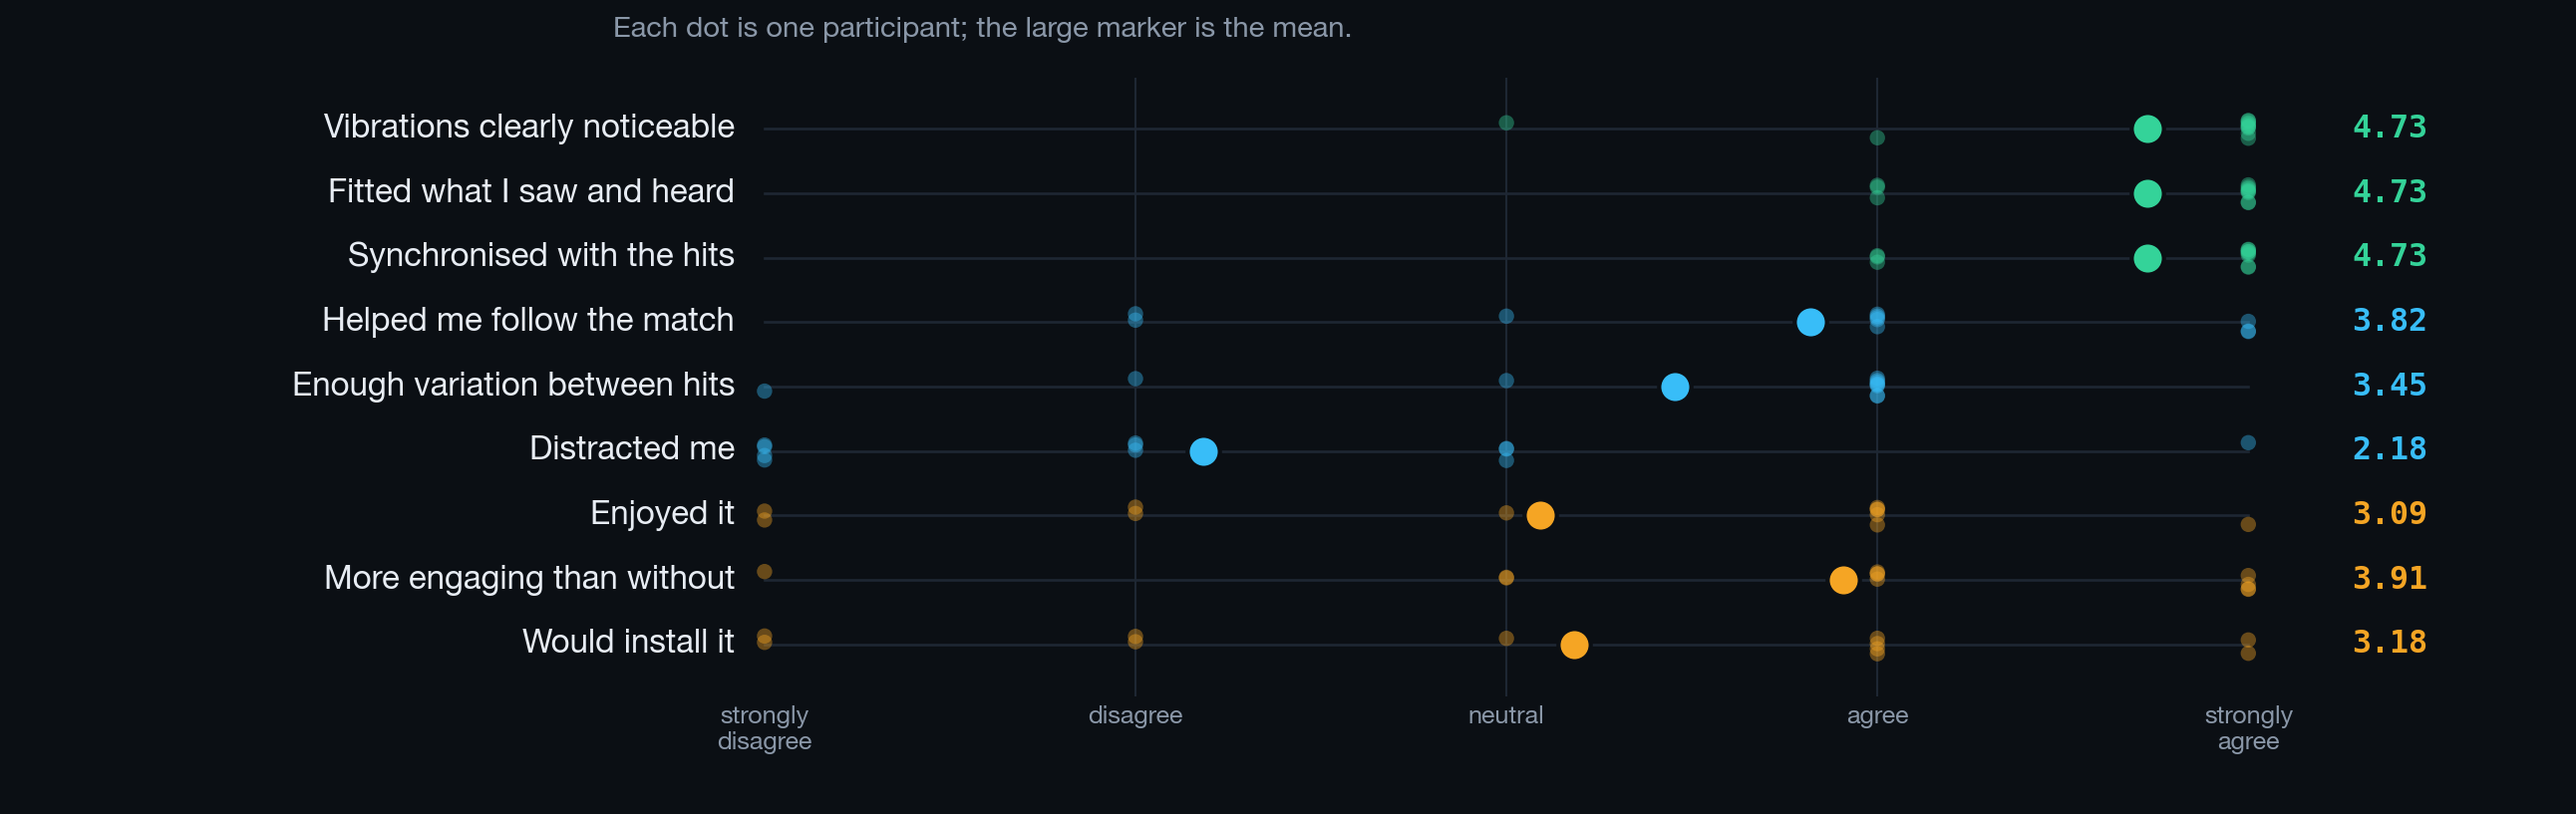
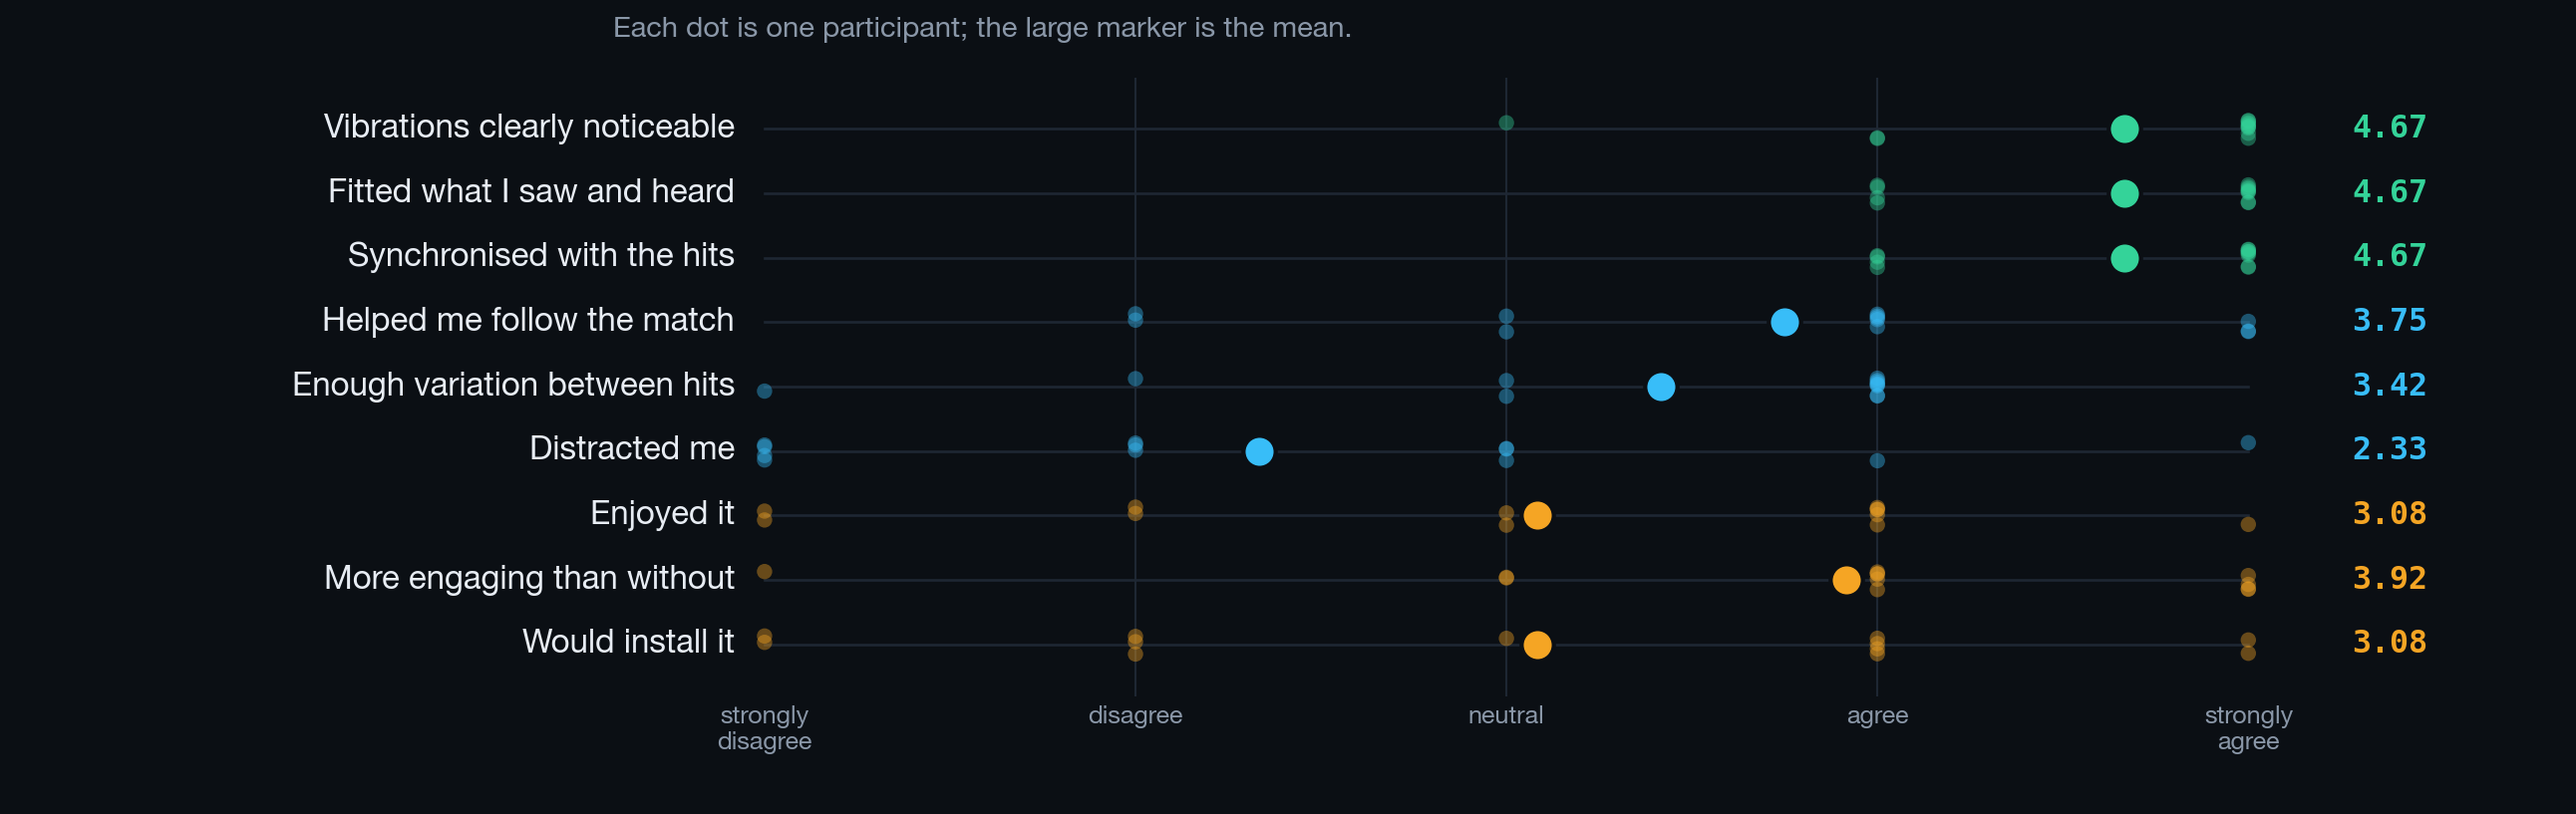
user study: add P14, n = 12
Transcribed from the 2026-08-18 scan. A 45-54 male, watches sport
monthly and tennis a few times a year, never played, slightly familiar
with phone haptics, saw the no-vibration clip first.

The coded answers sit almost entirely mid-scale — neutral on enjoyment,
on "helped me follow" and on variation, agree on noticeable, fits and
synchronised, slightly more engaging, probably would not install — and
agree on "the vibration feedback distracted me", which only P11 had done
before.

Effect on the headline numbers is small. System quality 4.73 -> 4.67
(sd 0.52 -> 0.53); experience 3.39 -> 3.36 (sd 1.37 -> 1.33). Adoption
is now 6 yes / 1 unsure / 5 no. Order is evenly counterbalanced at 6/6
for the first time, which removes the imbalance the previous write-up
had to flag. Both medians on "enjoyed it" and "would install it" fall to
3.5, since 12 responses straddle the midpoint where 11 did not.

The free text is the substantial part. P14 states the attention cost
conditionally rather than absolutely: "when I'm not focused vb helps me
focused but when I'm focused vb distract me from watching", summarised
as "half and half". That reframes the finding — the channel is not
distracting or engaging per person, it competes for attention when
attention is already committed to the screen and recruits it when it is
not. The write-up's attentional-capture section is rebuilt around that
reading, since it explains P11 and the positive responses with one
mechanism instead of two.
[…]

diff --git a/docs/slides.src.html b/docs/slides.src.html
@@ -677,21 +677,21 @@ ul.ticks li b{color:var(--ink);font-weight:600;}
 <!-- 12 .................................................... user study -->
 <section class="slide" data-act="4" data-time="0:50">
   <div class="eyebrow"><i class="dot"></i>The feeling</div>
-  <h2>What 11 people said</h2>
+  <h2>What 12 people said</h2>
   <figure>
-    <img src="__ASSET:docs/figures/fig_c_user_study.png__" alt="Likert responses from 11 participants: system-quality items cluster at strongly agree, experience items spread across the whole scale">
-    <figcaption>Same people in both conditions, order balanced &nbsp;·&nbsp; two clips, one with buzzes &nbsp;·&nbsp; n = 11</figcaption>
+    <img src="__ASSET:docs/figures/fig_c_user_study.png__" alt="Likert responses from 12 participants: system-quality items cluster at strongly agree, experience items spread across the whole scale">
+    <figcaption>Same people in both conditions, order balanced &nbsp;·&nbsp; two clips, one with buzzes &nbsp;·&nbsp; n = 12</figcaption>
   </figure>
   <div class="cols" style="grid-template-columns:1fr 1fr;flex:none;gap:24px;margin-top:14px;">
     <div class="callout" style="border-left-color:var(--good);">
       <span class="lbl" style="color:var(--good);">The detector is not the problem</span>
-      Noticed, fits, in time: <strong>4.73 / 5</strong>, spread 0.52. Nobody
+      Noticed, fits, in time: <strong>4.67 / 5</strong>, spread 0.53. Nobody
       doubted that the buzzes land in the right place.
     </div>
     <div class="callout">
       <span class="lbl">Wanting it is a separate question</span>
-      Enjoyed, engaging, would install: <strong>3.39 / 5</strong>, spread
-      <strong>1.37</strong>. Six would install it, four would not.
+      Enjoyed, engaging, would install: <strong>3.36 / 5</strong>, spread
+      <strong>1.33</strong>. Six would install it, five would not.
     </div>
   </div>
 </section>

diff --git a/docs/QUESTIONNAIRE_RESULTS.md b/docs/QUESTIONNAIRE_RESULTS.md
@@ -2,7 +2,7 @@
 
 *Generated by `user_study.py --report` from `user_study_data.csv` and `user_study_freetext.csv`. Do not edit by hand — rerun the script.*
 
-**N = 11** (P01, P02, P03, P04, P05, P06, P08, P09, P10, P11, P13). Within-subject A/B: every participant saw two tennis clips, one with haptic feedback and one without, order counterbalanced, sound on in both conditions.
+**N = 12** (P01, P02, P03, P04, P05, P06, P08, P09, P10, P11, P13, P14). Within-subject A/B: every participant saw two tennis clips, one with haptic feedback and one without, order counterbalanced, sound on in both conditions.
 
 ---
 
@@ -12,70 +12,70 @@
 
 | Response          | n | %   |        |
 |-------------------|---|-----|--------|
-| 18-24             | 1 | 9%  | #      |
-| 25-34             | 3 | 27% | ###    |
-| 35-44             | 6 | 55% | ###### |
-| 45-54             | 0 | 0%  |        |
-| 55+               | 1 | 9%  | #      |
+| 18-24             | 1 | 8%  | #      |
+| 25-34             | 3 | 25% | ###    |
+| 35-44             | 6 | 50% | ###### |
+| 45-54             | 1 | 8%  | #      |
+| 55+               | 1 | 8%  | #      |
 | prefer not to say | 0 | 0%  |        |
 
 **Q3. Gender**
 
-| Response          | n | %   |         |
-|-------------------|---|-----|---------|
-| F                 | 4 | 36% | ####    |
-| M                 | 7 | 64% | ####### |
-| non-binary        | 0 | 0%  |         |
-| prefer not to say | 0 | 0%  |         |
+| Response          | n | %   |          |
+|-------------------|---|-----|----------|
+| F                 | 4 | 33% | ####     |
+| M                 | 8 | 67% | ######## |
+| non-binary        | 0 | 0%  |          |
+| prefer not to say | 0 | 0%  |          |
 
 **Q4. How often do you watch sport on a screen?**
 
 | Response           | n | %   |           |
 |--------------------|---|-----|-----------|
 | never              | 0 | 0%  |           |
-| a few times a year | 9 | 82% | ######### |
-| monthly            | 1 | 9%  | #         |
-| weekly             | 1 | 9%  | #         |
+| a few times a year | 9 | 75% | ######### |
+| monthly            | 2 | 17% | ##        |
+| weekly             | 1 | 8%  | #         |
 | daily              | 0 | 0%  |           |
 
 **Q5. How often do you also hold your phone while watching?**
 
-| Response   | n | %   |        |
-|------------|---|-----|--------|
-| never      | 2 | 18% | ##     |
-| rarely     | 1 | 9%  | #      |
-| sometimes  | 6 | 55% | ###### |
-| often      | 2 | 18% | ##     |
-| very often | 0 | 0%  |        |
+| Response   | n | %   |         |
+|------------|---|-----|---------|
+| never      | 2 | 17% | ##      |
+| rarely     | 1 | 8%  | #       |
+| sometimes  | 7 | 58% | ####### |
+| often      | 2 | 17% | ##      |
+| very often | 0 | 0%  |         |
 
 **Q6. How often do you watch tennis specifically?**
 
-| Response           | n | %   |         |
-|--------------------|---|-----|---------|
-| never              | 4 | 36% | ####    |
-| a few times a year | 7 | 64% | ####### |
-| monthly            | 0 | 0%  |         |
-| weekly             | 0 | 0%  |         |
-| daily              | 0 | 0%  |         |
+| Response           | n | %   |          |
+|--------------------|---|-----|----------|
+| never              | 4 | 33% | ####     |
+| a few times a year | 8 | 67% | ######## |
+| monthly            | 0 | 0%  |          |
+| weekly             | 0 | 0%  |          |
+| daily              | 0 | 0%  |          |
 
 **Q7. Do you play tennis yourself?**
 
-| Response     | n | %   |          |
-|--------------|---|-----|----------|
-| never        | 8 | 73% | ######## |
-| occasionally | 3 | 27% | ###      |
-| regularly    | 0 | 0%  |          |
+| Response     | n | %   |           |
+|--------------|---|-----|-----------|
+| never        | 9 | 75% | ######### |
+| occasionally | 3 | 25% | ###       |
+| regularly    | 0 | 0%  |           |
 
 **Q8. Familiarity with smartphone vibration feedback**
 
 | Response   | n | %   |      |
 |------------|---|-----|------|
-| not_at_all | 1 | 9%  | #    |
-| slightly   | 3 | 27% | ###  |
-| moderately | 3 | 27% | ###  |
-| very       | 4 | 36% | #### |
+| not_at_all | 1 | 8%  | #    |
+| slightly   | 4 | 33% | #### |
+| moderately | 3 | 25% | ###  |
+| very       | 4 | 33% | #### |
 
-**Q9. Any condition making you sensitive to vibration?** — all 11 answered *No*; nobody was excluded on this basis.
+**Q9. Any condition making you sensitive to vibration?** — all 12 answered *No*; nobody was excluded on this basis.
 
 ---
 
@@ -85,8 +85,8 @@
 
 | Order        | n | %   |        |
 |--------------|---|-----|--------|
-| vib_first    | 6 | 55% | ###### |
-| no_vib_first | 5 | 45% | #####  |
+| vib_first    | 6 | 50% | ###### |
+| no_vib_first | 6 | 50% | ###### |
 
 ### Likert items (Q3–Q9)
 
@@ -94,44 +94,44 @@ Counts at each scale point, 1 = strongly disagree … 5 = strongly agree. Every 
 
 | Item                          | 1 | 2 | 3 | 4 | 5 | mean | med | sd   |
 |-------------------------------|---|---|---|---|---|------|-----|------|
-| Enjoyed it                    | 2 | 2 | 1 | 5 | 1 | 3.09 | 4   | 1.38 |
-| Helped me follow the match    | 0 | 2 | 1 | 5 | 3 | 3.82 | 4   | 1.08 |
-| Vibrations clearly noticeable | 0 | 0 | 1 | 1 | 9 | 4.73 | 5   | 0.65 |
-| Fitted what I saw and heard   | 0 | 0 | 0 | 3 | 8 | 4.73 | 5   | 0.47 |
-| Synchronised with the hits    | 0 | 0 | 0 | 3 | 8 | 4.73 | 5   | 0.47 |
-| Distracted me                 | 4 | 3 | 3 | 0 | 1 | 2.18 | 2   | 1.25 |
-| Enough variation between hits | 1 | 1 | 1 | 8 | 0 | 3.45 | 4   | 1.04 |
+| Enjoyed it                    | 2 | 2 | 2 | 5 | 1 | 3.08 | 4   | 1.31 |
+| Helped me follow the match    | 0 | 2 | 2 | 5 | 3 | 3.75 | 4   | 1.06 |
+| Vibrations clearly noticeable | 0 | 0 | 1 | 2 | 9 | 4.67 | 5   | 0.65 |
+| Fitted what I saw and heard   | 0 | 0 | 0 | 4 | 8 | 4.67 | 5   | 0.49 |
+| Synchronised with the hits    | 0 | 0 | 0 | 4 | 8 | 4.67 | 5   | 0.49 |
+| Distracted me                 | 4 | 3 | 3 | 1 | 1 | 2.33 | 2   | 1.30 |
+| Enough variation between hits | 1 | 1 | 2 | 8 | 0 | 3.42 | 4   | 1.00 |
 
 **Q10. How engaging, compared with the clip without vibration?**
 
-| Response               | n | %   |      |
-|------------------------|---|-----|------|
-| much less engaging     | 1 | 9%  | #    |
-| slightly less engaging | 0 | 0%  |      |
-| about the same         | 2 | 18% | ##   |
-| slightly more engaging | 4 | 36% | #### |
-| much more engaging     | 4 | 36% | #### |
+| Response               | n | %   |       |
+|------------------------|---|-----|-------|
+| much less engaging     | 1 | 8%  | #     |
+| slightly less engaging | 0 | 0%  |       |
+| about the same         | 2 | 17% | ##    |
+| slightly more engaging | 5 | 42% | ##### |
+| much more engaging     | 4 | 33% | ####  |
 
-mean 3.91  ·  median 4  ·  sd 1.22
+mean 3.92  ·  median 4  ·  sd 1.16
 
 **Q11. Would you install such an app?**
 
 | Response       | n | %   |      |
 |----------------|---|-----|------|
-| definitely not | 2 | 18% | ##   |
-| probably not   | 2 | 18% | ##   |
-| not sure       | 1 | 9%  | #    |
-| maybe yes      | 4 | 36% | #### |
-| definitely yes | 2 | 18% | ##   |
+| definitely not | 2 | 17% | ##   |
+| probably not   | 3 | 25% | ###  |
+| not sure       | 1 | 8%  | #    |
+| maybe yes      | 4 | 33% | #### |
+| definitely yes | 2 | 17% | ##   |
 
-mean 3.18  ·  median 4  ·  sd 1.47
+mean 3.08  ·  median 4  ·  sd 1.44
 
 ### Summary scales
 
 | Scale          | Items                                       | mean | sd   |
 |----------------|---------------------------------------------|------|------|
-| System quality | Q5 noticeable, Q6 fits, Q7 synchronised     | 4.73 | 0.52 |
-| Experience     | Q3 enjoyed, Q10 engaging, Q11 would install | 3.39 | 1.37 |
+| System quality | Q5 noticeable, Q6 fits, Q7 synchronised     | 4.67 | 0.53 |
+| Experience     | Q3 enjoyed, Q10 engaging, Q11 would install | 3.36 | 1.33 |
 
 ---
 
@@ -163,6 +163,8 @@ Reproduced verbatim, including original spelling and grammar. Participants are i
 
 **P13** — It feels like playing by ourselves. Feels like I'm also holding the racket, and I will have the urge to swing my hands along.
 
+**P14** — when I'm not focused vb helps me focused but when I'm focused vb distract me from watching  ["vb" = vibration]
+
 ### Q13. Did the vibration feedback feel natural or distracting? Why?
 
 **P01** — It felt nature. no distracting.
@@ -186,6 +188,8 @@ Reproduced verbatim, including original spelling and grammar. Participants are i
 **P11** — distracting. my feeling just focus on my hand and I forget the content I watched (my eyes can't focusing at all)
 
 **P13** — It's natural. I use the strongest mode already, but it's still not too strong because the vibration while I'm actually playing tennis is even stronger.
+
+**P14** — half and half
 
 ### Q14. Any other comments or suggestions?
 
@@ -211,6 +215,8 @@ Reproduced verbatim, including original spelling and grammar. Participants are i
 
 **P13** — If the vibration could be even stronger, I would like it even more.
 
+**P14** — vb has a limitation to express action because it moves for only ball touch. If it has different sequence could help  [transcription uncertain]
+
 ---
 
 ## Caveats
@@ -223,4 +229,4 @@ Reproduced verbatim, including original spelling and grammar. Participants are i
 
 - **The two clips were different footage.** Condition order was counterbalanced and is recorded, but which clip carried the haptics is not, so clip content is a potential confound on every experience item. The system-quality items (noticeable, fits, synchronised) are judgements about the haptics themselves and are far less exposed to it.
 
-- **n = 11, convenience sample, no regular tennis viewers.** Enough to establish that the experience response is divided; not enough to explain who falls on which side.
+- **n = 12, convenience sample, no regular tennis viewers.** Enough to establish that the experience response is divided; not enough to explain who falls on which side.

diff --git a/docs/USER_STUDY.md b/docs/USER_STUDY.md
@@ -15,7 +15,7 @@ Committee. Participants gave written consent and are identified only by code.*
 Within-subject A/B comparison. Each participant watched **two tennis clips** —
 one with synchronised haptic feedback delivered to a handheld smartphone, one
 without — with **presentation order counterbalanced** (6 participants received
-the haptic condition first, 5 received it second). Both clips played with
+the haptic condition first, 6 received it second). Both clips played with
 **sound at normal level**.
 
 The two clips were different footage rather than the same clip repeated, which
@@ -27,15 +27,15 @@ Participants completed a pre-study questionnaire (demographics, viewing habits,
 haptic familiarity) and a post-study questionnaire: a nine-item 5-point Likert
 battery plus three free-text questions.
 
-**N = 11** (P01–P06, P08–P11, P13).
+**N = 12** (P01–P06, P08–P11, P13, P14).
 
 | | |
 |---|---|
-| Age | 35–44 (6), 25–34 (3), 18–24 (1), 55+ (1) |
-| Gender | 7 male, 4 female |
-| Watches tennis | a few times a year (7), never (4) |
-| Plays tennis | never (8), occasionally (3) |
-| Haptics familiarity | very (4), moderately (3), slightly (3), not at all (1) |
+| Age | 35–44 (6), 25–34 (3), 18–24 (1), 45–54 (1), 55+ (1) |
+| Gender | 8 male, 4 female |
+| Watches tennis | a few times a year (8), never (4) |
+| Plays tennis | never (9), occasionally (3) |
+| Haptics familiarity | very (4), slightly (4), moderately (3), not at all (1) |
 
 No participant reported a condition affecting vibration sensitivity. The sample
 is drawn from a convenience population and contains **no regular tennis
@@ -50,11 +50,11 @@ finding.
 
 | Item | Mean | Median | Range |
 |---|---|---|---|
-| Vibrations clearly noticeable | 4.73 | 5 | 3–5 |
-| Fitted what I saw and heard | 4.73 | 5 | 4–5 |
-| **Synchronised with the hits** | **4.73** | **5** | **4–5** |
+| Vibrations clearly noticeable | 4.67 | 5 | 3–5 |
+| Fitted what I saw and heard | 4.67 | 5 | 4–5 |
+| **Synchronised with the hits** | **4.67** | **5** | **4–5** |
 
-Pooled mean **4.73**, standard deviation **0.52**. No participant scored any of
+Pooled mean **4.67**, standard deviation **0.53**. No participant scored any of
 these three items below 3, and only one scored below 4 on any of them.
 
 This is the direct subjective validation of the acoustic pipeline. The measured
@@ -66,12 +66,12 @@ the ~100 ms tolerance generally reported for audio-tactile simultaneity.
 
 | Item | Mean | Median | Range |
 |---|---|---|---|
-| Enjoyed it | 3.09 | 4 | 1–5 |
-| More engaging than without | 3.91 | 4 | 1–5 |
-| Would install it | 3.18 | 4 | 1–5 |
+| Enjoyed it | 3.08 | 3.5 | 1–5 |
+| More engaging than without | 3.92 | 4 | 1–5 |
+| Would install it | 3.08 | 3.5 | 1–5 |
 
-Pooled mean **3.39**, standard deviation **1.37** — **2.6× the spread** of the
-system-quality items. Adoption intent split **6 yes / 1 unsure / 4 no**, and
+Pooled mean **3.36**, standard deviation **1.33** — **2.5× the spread** of the
+system-quality items. Adoption intent split **6 yes / 1 unsure / 5 no**, and
 the per-participant experience score ranges from 5.00 to 1.33.
 
 The variance is *between participants*, not between items: those who liked it
@@ -81,9 +81,10 @@ performing correctly is therefore not sufficient to predict acceptance.
 ### Order
 
 Participants who received the haptic condition first rated it higher on every
-experience item (engagement +0.57, would-install +0.70). With n = 6 against
-n = 5 this cannot be tested and is reported only so the imbalance is visible;
-it suggests a possible contrast effect worth controlling in a larger study.
+experience item (engagement +0.50, would-install +0.50). The split is now even
+at 6 against 6, but 12 participants still cannot support a test; it is reported
+so the direction is visible, and suggests a contrast effect worth controlling
+in a larger study.
 
 ## Free-text themes
 
@@ -101,19 +102,28 @@ feedback on the hitting force could be provided"*. This is the direct
 experiential cost of the per-broadcast relative intensity mapping, and the
 clearest actionable finding in the study.
 
-**Attentional capture.** One participant (P11) reported the failure mode
-inverted: *"I just wait the next vibration, and less focus on what the match
-displayed"* … *"my feeling just focus on my hand and I forget the content I
-watched"* … *"I can not deal with these two part of my body feeling at the same
-time without training."* P04 reported a milder version. This is not a detection
-error — the same participant rated synchronisation 5/5 — but a
-cross-modal attention cost that accuracy improvements cannot address.
+**Attentional capture, and the condition it depends on.** P11 reported the
+failure mode inverted: *"I just wait the next vibration, and less focus on what
+the match displayed"* … *"my feeling just focus on my hand and I forget the
+content I watched"* … *"I can not deal with these two part of my body feeling at
+the same time without training."* P04 reported a milder version.
 
-**Information content.** Two participants noted that the channel carries only
+P14 supplied the most precise account of the mechanism, and made it conditional:
+*"when I'm not focused [the vibration] helps me focused, but when I'm focused
+[it] distract[s] me from watching"*, summarising the whole experience as *"half
+and half"*. On this reading the haptic channel is not simply distracting or
+simply engaging; it competes for attention when attention is already committed
+to the screen, and recruits it when it is not. Both participants rated
+synchronisation 4/5 or better, so this is not a detection error but a cross-modal
+attention cost that no accuracy improvement addresses. Three of twelve
+participants now agree with "the vibration feedback distracted me".
+
+**Information content.** Three participants noted that the channel carries only
 timing: *"the vibration feedback just reflected the hitting voice and didn't
 contain other information in the game"*; *"it'll be better if it report the
-result by different vibration"*. P01 wanted vibration for only one player's
-strokes.
+result by different vibration"*; and P14, that it *"has a limitation to express
+action because it moves for only ball touch"*, suggesting different patterns for
+different events. P01 wanted vibration for only one player's strokes.
 
 **Detection errors were perceptible.** P02: *"I noticed a slight mismatch in the
 timing"* and *"I think one time it missed a shot"* — consistent with the
@@ -142,11 +152,11 @@ how incoming notifications would be prevented from being mistaken for feedback
   A repeat should either counterbalance clip against condition or record the
   clip-to-condition assignment per participant, which costs one extra field.
 
-- **n = 11**, convenience sample, no regular tennis viewers. Sufficient to
+- **n = 12**, convenience sample, no regular tennis viewers. Sufficient to
   establish that the experience response is divided; insufficient to explain
   who falls on which side.
-- Order was counterbalanced but unbalanced (6/5), and the sample is too small
-  to test the apparent order effect.
+- Order is evenly counterbalanced (6/6), but the sample is far too small to
+  test the apparent order effect.
 - Single session, single device, short clips — nothing here speaks to whether
   the effect survives an hour of viewing, or novelty decay.
 - **Transcription caveat.** P02 and P09 are recorded as *strongly disagree* on
